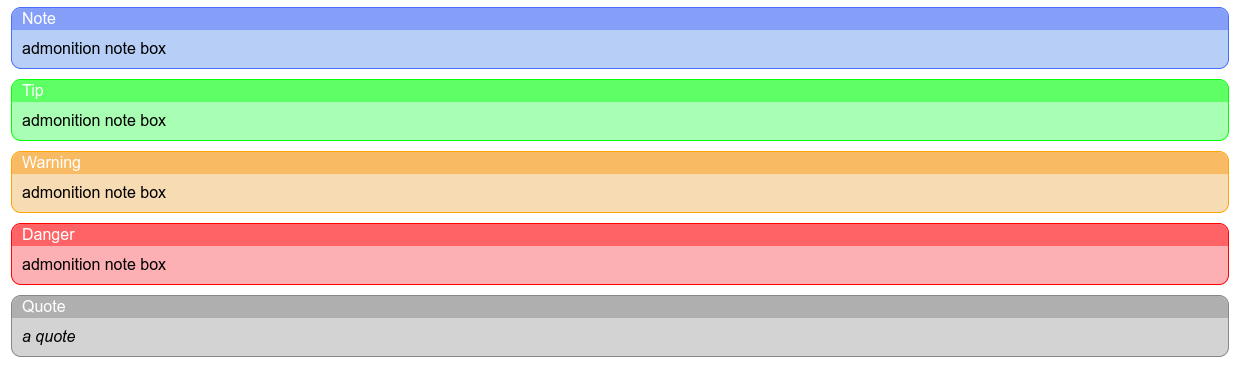
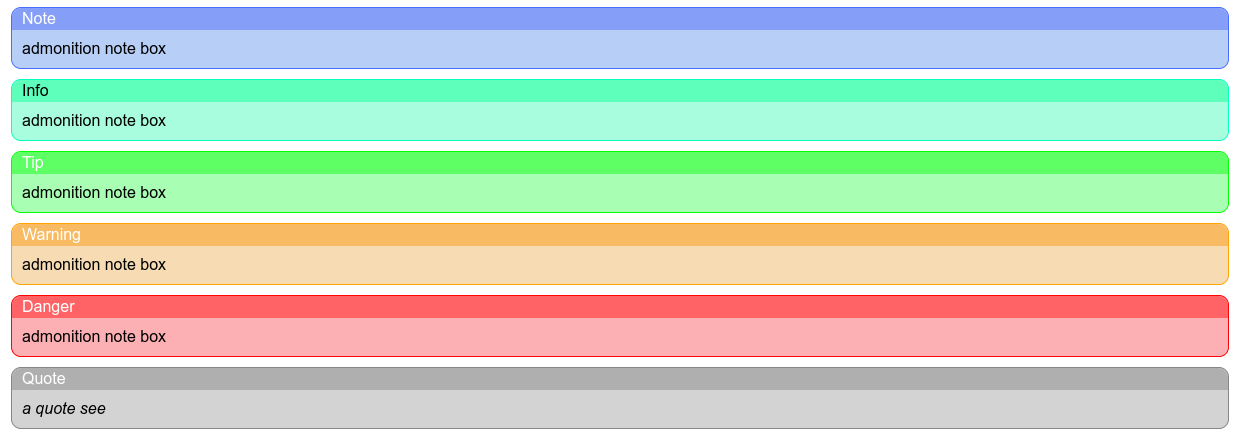
feat(core): correct markdown formatting for KB articles
ref: #270

diff --git a/app/project-static/ticketing.css b/app/project-static/ticketing.css
@@ -581,8 +581,20 @@
     margin: 0px 5px 0px 5px;
 }
 
+div#markdown {
+    justify-content: center;
+    display: block;
+    text-align: left;
+    padding: 10px;
+}
+#markdown .codehilite {
+    display: block;
+    width: 100%;
+    word-wrap: break-word;
+    white-space: pre-wrap;
+}
 
-#ticket-content #markdown h1 {
+#markdown h1 {
     background-color: inherit;
     color: inherit;
     font-size: 24px;
@@ -594,7 +606,7 @@
 }
 
 
-#ticket-content #markdown h2 {
+#markdown h2 {
     background-color: inherit;
     color: inherit;
     font-size: 20px;
@@ -606,7 +618,7 @@
 }
 
 
-#ticket-content #markdown h3 {
+#markdown h3 {
     background-color: inherit;
     color: inherit;
     font-size: 18px;
@@ -618,7 +630,7 @@
 }
 
 
-#ticket-content #markdown h4 {
+#markdown h4 {
     background-color: inherit;
     color: #000;
     font-size: 16px;
@@ -630,7 +642,7 @@
 }
 
 
-#ticket-content #markdown h5 {
+#markdown h5 {
     background-color: inherit;
     color: #000;
     font-size: 14px;
@@ -642,7 +654,7 @@
 }
 
 
-#ticket-content #markdown li {
+#markdown li {
     background-color: inherit;
     font-size: 14px;
     line-height: 25px;
@@ -654,7 +666,7 @@
 
 
 
-#ticket-content #markdown p:not(div.admonition p){
+#markdown p:not(div.admonition p){
     background-color: inherit;
     font-size: inherit;
     line-height: 25px;
@@ -689,6 +701,15 @@
     padding: 10px;
     margin: 0px;
     width: 100%;
+}
+
+#markdown div.admonition.info {
+    background-color: #b6f5dd;
+    border-color:#27ffbe;
+}
+
+#markdown div.admonition.info p.admonition-title {
+    background-color: #1ef59170;
 }
 
 #markdown div.admonition.note {

diff --git a/app/project-static/content.css b/app/project-static/content.css
@@ -43,7 +43,7 @@ refactored
 }
 
 
-#content-body form#dynamic-form div {
+#content-body form#dynamic-form div:not(#markdown) {
   align-items: center;
   display: block;
   line-height: inherit;
@@ -199,7 +199,7 @@ main section a:visited {
 
 }
 
-article div {
+article div:not(.codehilite) {
   /* background-color: #ff0000; */
   justify-content: center;
   width: 100%;

diff --git a/docs/projects/centurion_erp/user/core/markdown.md b/docs/projects/centurion_erp/user/core/markdown.md
@@ -44,6 +44,8 @@ Available admonition types are:
 
 - note
 
+- info
+
 - tip
 
 - warning
